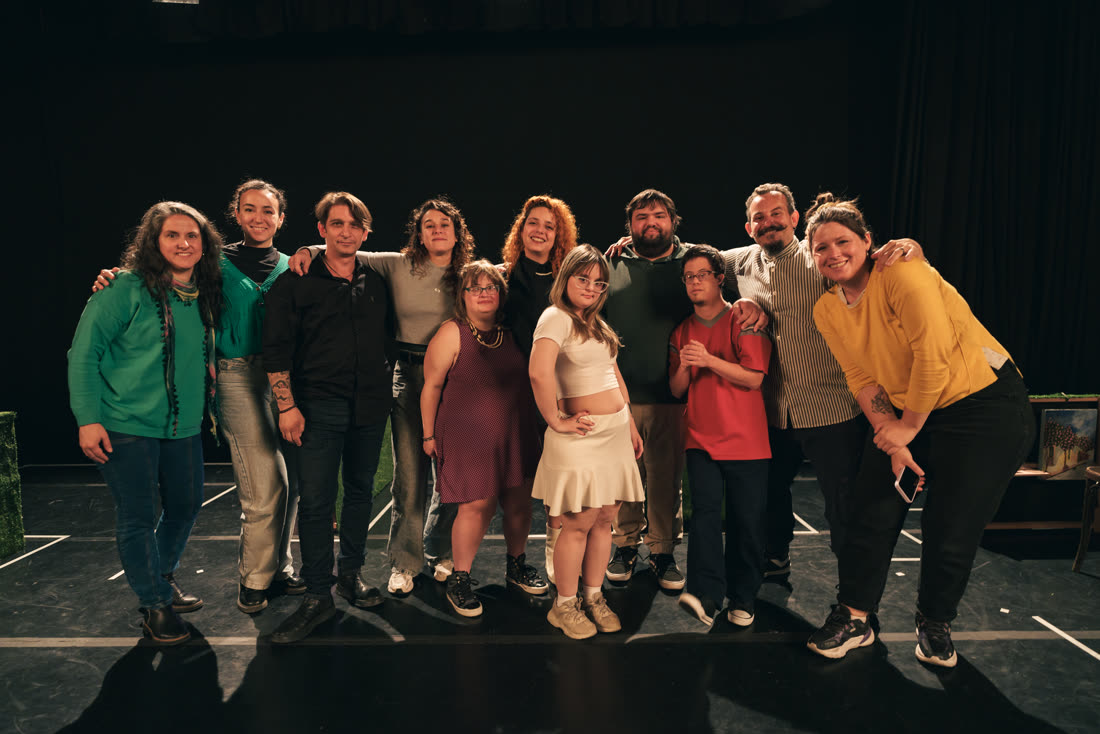
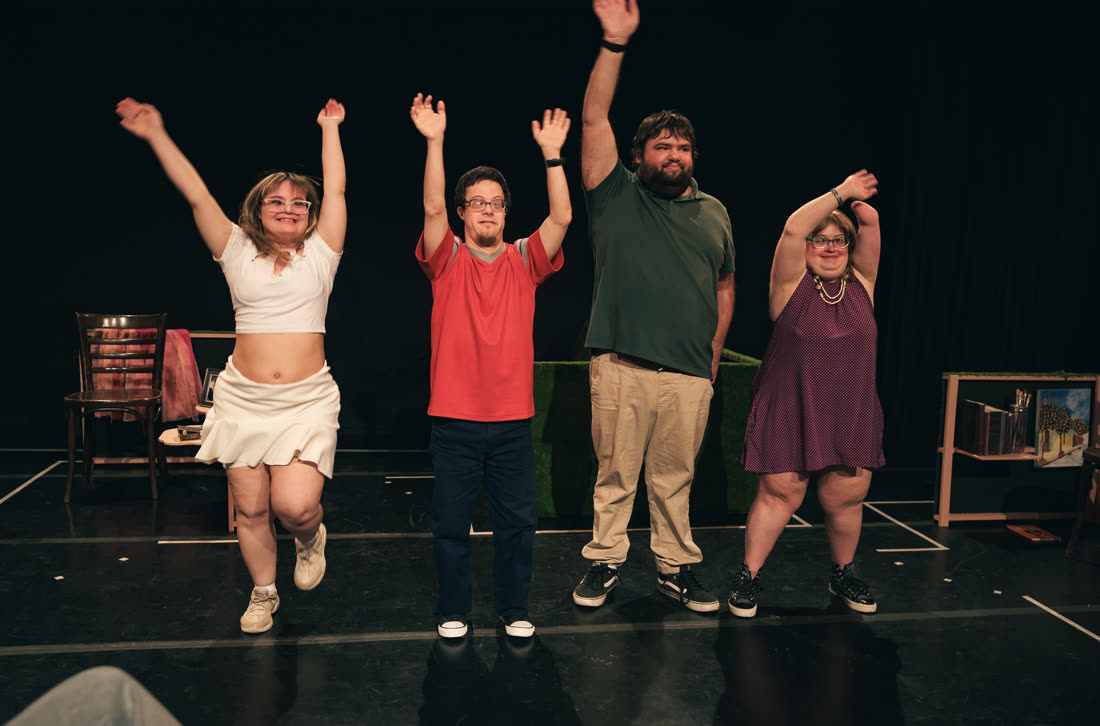
Cambios que pidieron ellas

diff --git a/index.html b/index.html
@@ -367,7 +367,6 @@
                         <div class="alianza-slideshow-frame">
                             <img src="assets/imgs/alianzas-1.jpg" alt="Centro Cultural de la Cooperación">
                             <img src="assets/imgs/alianzas-2.jpg" alt="Centro Cultural de la Cooperación">
-                            <img src="assets/imgs/alianzas-3.jpg" alt="Centro Cultural de la Cooperación">
                         </div>
                     </div>
                     <div class="alianza-copy">
@@ -457,6 +456,15 @@
                         </div>
                     </div>
                 </div>
+                <div class="timeline-item">
+                    <div class="timeline-card">
+                        <img class="timeline-photo" src="assets/imgs/participaciones-7.jpg" alt="Entrevista en la Universidad Nacional de las Artes">
+                        <div class="timeline-card-copy">
+                            <h4 class="timeline-card-title">Entrevista en la UNA</h4>
+                            <p>La Universidad Nacional de las Artes invitó a Malena Sánchez Olmos a participar de una entrevista sobre Accesibilidad Cultural. La charla se dio en el marco de la Diplomatura en herramientas de gestión, producción, y programación para el sector cultural independiente, que la universidad organiza junto a Vuela el pez.</p>
+                        </div>
+                    </div>
+                </div>
             </div>
         </div>
 
@@ -476,7 +484,7 @@
                     <div class="slide apoyo-slide"><img src="assets/imgs/logos/logo-ctba.webp" alt="CTBA"></div>
                     <div class="slide apoyo-slide"><img src="assets/imgs/logos/logo-secretaria-cultura-nacion.png" alt="Secretaría de Cultura de la Nación"></div>
                     <div class="slide apoyo-slide"><img src="assets/imgs/logos/logo-la-matanza.png" alt="La Matanza"></div>
-                    <div class="slide apoyo-slide"><img src="assets/imgs/logos/logo-chacra-remedios.jpg" alt="La Chacra de los Remedios"></div>
+                    <div class="slide apoyo-slide"><img src="assets/imgs/logos/logo-buenos-aires-ciudad.png" alt="Buenos Aires Ciudad"></div>
                     <div class="slide apoyo-slide"><img src="assets/imgs/logos/logo-ort.png" alt="ORT Argentina"></div>
                     <div class="slide apoyo-slide"><img src="assets/imgs/logos/logo-proteatro.png" alt="Proteatro"></div>
                     <div class="slide apoyo-slide"><img src="assets/imgs/logos/logo-fiba.png" alt="FIBA - Festival Internacional de Buenos Aires"></div>
@@ -490,7 +498,7 @@
                     <div class="slide apoyo-slide"><img src="assets/imgs/logos/logo-ctba.webp" alt="CTBA"></div>
                     <div class="slide apoyo-slide"><img src="assets/imgs/logos/logo-secretaria-cultura-nacion.png" alt="Secretaría de Cultura de la Nación"></div>
                     <div class="slide apoyo-slide"><img src="assets/imgs/logos/logo-la-matanza.png" alt="La Matanza"></div>
-                    <div class="slide apoyo-slide"><img src="assets/imgs/logos/logo-chacra-remedios.jpg" alt="La Chacra de los Remedios"></div>
+                    <div class="slide apoyo-slide"><img src="assets/imgs/logos/logo-buenos-aires-ciudad.png" alt="Buenos Aires Ciudad"></div>
                     <div class="slide apoyo-slide"><img src="assets/imgs/logos/logo-ort.png" alt="ORT Argentina"></div>
                     <div class="slide apoyo-slide"><img src="assets/imgs/logos/logo-proteatro.png" alt="Proteatro"></div>
                     <div class="slide apoyo-slide"><img src="assets/imgs/logos/logo-fiba.png" alt="FIBA - Festival Internacional de Buenos Aires"></div>
@@ -562,10 +570,10 @@
                     <div class="op-block-panel-inner">
                         <p>Esto incluye:</p>
                         <ul class="op-block-list">
-                            <li><strong>Curso IAC:</strong> Curso autoasistido en formato video de Introducción a la Accesibilidad Cultural, destinado al público general que desee hacer una primera aproximación al tema. <span class="link-pending">(falta el link)</span></li>
-                            <li><strong>Caja de Herramientas:</strong> Conjunto de herramientas prácticas para accesibilizar espacios y proyectos culturales, tales como pictogramas, señalética, información sobre tipos de apoyos, entre otras. <span class="link-pending">(falta el link)</span></li>
-                            <li><strong>Manual de funciones distendidas:</strong> Manual práctico para implementar funciones distendidas de espectáculos de artes escénicas, incluyendo adaptaciones escenotécnicas, material anticipatorio y espacio de bajos estímulos. <span class="link-pending">(falta el link)</span></li>
-                            <li><strong>Relevamiento de accesibilidad cultural en artes escénicas:</strong> estudio sobre las condiciones de accesibilidad en salas teatrales independientes de la Ciudad de Buenos Aires. El objetivo es identificar los apoyos presentes en las salas para poder disponibilizar la información en la web de Alternativa Teatral. <span class="link-pending">(falta el link)</span></li>
+                            <li><strong>Curso IAC:</strong> Curso autoasistido en formato video de Introducción a la Accesibilidad Cultural, destinado al público general que desee hacer una primera aproximación al tema.</li>
+                            <li><strong>Caja de Herramientas:</strong> Conjunto de herramientas prácticas para accesibilizar espacios y proyectos culturales, tales como pictogramas, señalética, información sobre tipos de apoyos, entre otras.</li>
+                            <li><strong>Manual de funciones distendidas:</strong> Manual práctico para implementar funciones distendidas de espectáculos de artes escénicas, incluyendo adaptaciones escenotécnicas, material anticipatorio y espacio de bajos estímulos.</li>
+                            <li><strong>Relevamiento de accesibilidad cultural en artes escénicas:</strong> estudio sobre las condiciones de accesibilidad en salas teatrales independientes de la Ciudad de Buenos Aires. El objetivo es identificar los apoyos presentes en las salas para poder disponibilizar la información en la web de Alternativa Teatral.</li>
                         </ul>
                         <p class="op-block-sponsors">Con el apoyo de:</p>
                         <div class="op-block-sponsor-logos">
@@ -581,7 +589,7 @@
             <div class="op-block">
                 <button type="button" class="op-block-trigger" aria-expanded="false" aria-controls="op-panel-3">
                     <span class="op-block-heading">
-                        <span class="op-block-title">Podcast</span>
+                        <span class="op-block-title"><img src="assets/imgs/logos/logo-podcast.png" alt="Podcast Apto para Todo Público"></span>
                         <span class="op-block-preview">El Podcast Apto para Todo Público está dirigido a toda la comunidad, tiene el objetivo de difundir la accesibilidad cultural y socializar el aprendizaje.</span>
                     </span>
                     <span class="op-block-icon" aria-hidden="true"></span>
@@ -620,14 +628,14 @@
 
                 <div class="services-wrapper">
                     <h3 class="title mb-3" data-section="servicios-asesorias" data-translate="title">Asesorías - Accesibilizá tu proyecto</h3>
-                    <video class="services-wrapper-photo" src="assets/imgs/videos/distendida-gdz-web.mp4" controls preload="metadata" playsinline></video>
+                    <img class="services-wrapper-photo" src="assets/imgs/servicios-2.jpg" alt="Flyer de La Granja de Zenón">
                     <div class="services-wrapper-text-flyer">
                         <div class="services-wrapper-text">
                             <p data-section="servicios-asesorias" data-translate="paragraph1">Espacio de acompañamiento para que los proyectos culturales nazcan o se vuelvan accesibles para todos los públicos. A través de herramientas de gestión cultural y poniendo el foco en la accesibilidad cultural, buscamos aportar en el desarrollo de proyectos culturales aptos para todo público.</p>
                             <p data-section="servicios-asesorias" data-translate="paragraph2">Este servicio integral incluye: adaptación técnica del contenido, armado de material anticipatorio, diseño de señalética con pictogramas, capacitación al equipo de producción y personal de sala y acompañamiento por parte de un equipo de salud mental previo y durante las funciones.</p>
                         </div>
                         <div class="services-wrapper-flyer-col">
-                            <img class="services-wrapper-flyer" src="assets/imgs/servicios-2.jpg" alt="Función distendida en La Granja de Zenón">
+                            <video class="services-wrapper-flyer" src="assets/imgs/videos/distendida-gdz-web.mp4" controls preload="metadata" playsinline></video>
                             <p class="services-wrapper-credit" data-section="servicios-asesorias" data-translate="credit">La Granja de Zenón</p>
                         </div>
                     </div>

diff --git a/assets/scss/styles.scss b/assets/scss/styles.scss
@@ -3625,8 +3625,8 @@ nav.page-navbar.affix .navbar-brand .text-dark {
     }
   }
 
-  // Mobile only, per request — brand red instead of white, and one
-  // section per row instead of a wrapped inline row.
+  // Mobile only, per request — brand red instead of white, bold, and
+  // one section per row instead of a wrapped inline row.
   @media (max-width: 700px) {
     ul {
       flex-direction: column;
@@ -3634,6 +3634,7 @@ nav.page-navbar.affix .navbar-brand .text-dark {
 
     a {
       color: $primary;
+      font-weight: 700;
     }
   }
 }
@@ -4012,9 +4013,13 @@ nav.page-navbar.affix .navbar-brand .text-dark {
     width: 70%;
     max-width: none;
     font-size: 15px;
-    text-align: center;
+    // Was "center" with "margin: 40px auto 0" (auto-centering the
+    // narrower 70%-wide block itself) — per request, left-aligned
+    // instead: text starts at the container's own left edge rather than
+    // sitting centered in a floating column.
+    text-align: left;
     transform: none;
-    margin: 40px auto 0;
+    margin: 40px 0 0;
   }
 
   .header-eyebrow-stack {
@@ -4723,9 +4728,9 @@ section.height-auto {
   // matches tab-focus, not mouse clicks).
   outline: none;
 
-  // AcceDER I/II show a tall program logo instead of plain text — less
-  // vertical padding so the collapsed row doesn't grow so much (Podcast,
-  // with a plain-text title, keeps the default padding above).
+  // All three (AcceDER I/II, Podcast) show a program logo/cover instead
+  // of plain text — less vertical padding so the collapsed row doesn't
+  // grow so much.
   &:has(.op-block-title img) {
     padding-top: 2px;
   }
@@ -4756,8 +4761,8 @@ section.height-auto {
   align-self: stretch;
   text-align: center;
 
-  // AcceDER I/II show their own program logo here instead of text
-  // (Podcast has no logo, so it stays plain text).
+  // AcceDER I/II/Podcast each show their own program logo/cover here
+  // instead of plain text.
   img {
     display: block;
     margin: 0 auto;
@@ -4767,6 +4772,15 @@ section.height-auto {
 
   img[src*="logo-acceder-II"] {
     max-height: 155px;
+  }
+
+  // A bit bigger than the others (it's a square cover, so it reads
+  // smaller at the same height), plus its own bottom margin to clear
+  // the preview text below it — the base rule's "margin: 0 auto" has no
+  // bottom space, so it was sitting right up against that text.
+  img[src*="logo-podcast"] {
+    max-height: 150px;
+    margin-bottom: 14px;
   }
 }
 
@@ -4827,12 +4841,6 @@ section.height-auto {
       margin-bottom: 0;
     }
   }
-}
-
-.link-pending {
-  color: rgba($white, 0.5);
-  font-style: italic;
-  font-size: 0.85em;
 }
 
 .op-block-media {
@@ -4983,7 +4991,12 @@ section.height-auto {
 // The illustrative photo/media sit below the title, as regular content.
 .services-wrapper-photo {
   width: 100%;
-  aspect-ratio: 4 / 3;
+  // Both photos that land in this slot are portrait (servicios-1.jpg is
+  // 1200x1600, servicios-2.jpg's flyer is 900x1126) — the old 4/3
+  // (landscape) ratio combined with object-fit: cover cropped away
+  // roughly the top/bottom half of each, cutting flyer text/logos off
+  // entirely. 3/4 matches their own shape instead.
+  aspect-ratio: 3 / 4;
   object-fit: cover;
   border-radius: 0.2rem;
   margin-bottom: 15px;
@@ -5065,14 +5078,22 @@ section.height-auto {
   background-color: $white;
   background-image: url(../imgs/portada-obras.jpg);
   background-size: 925px auto;
-  background-position: left bottom;
+  // Was "left" (0) — per request, pulled further left (off-canvas) on
+  // desktop so the shape's own right edge clears the centered
+  // title/subtitle/intro text instead of creeping under it. Mobile below
+  // overrides this back to its own position, so only desktop moves.
+  background-position: -120px bottom;
   background-repeat: no-repeat;
 
-  // On mobile, pin the image to the bottom-right corner and shrink the
-  // fixed size down — 925px would mostly be cropped off-screen on a
-  // phone-width viewport.
-  @media (max-width: 700px) {
-    background-position: right bottom;
+  // Below 1253px the desktop -120px-left position runs out of room and
+  // starts looking wrong (per request) — shrink the fixed size down
+  // instead, same as mobile below that point. Stays pinned to the LEFT
+  // (per request — not "right", which it had wrongly ended up as here),
+  // matching the desktop version's own left-ish placement. This
+  // threshold is specific to this image/layout, not the site's usual
+  // 700px mobile breakpoint.
+  @media (max-width: 1253px) {
+    background-position: left bottom;
     background-size: 420px auto;
   }
 
@@ -6096,6 +6117,17 @@ body.modal-open .project-card {
     &:nth-child(2) { animation-delay: 6s; }
     &:nth-child(3) { animation-delay: 12s; }
   }
+}
+
+// .alianza-slideshow--arch (Centro Cultural de la Cooperación) only has
+// 2 photos, not the 3 the base rule above is timed for — at 18s/3-way
+// dwell, each photo would sit idle (fully faded out) for a dead ~6s
+// stretch of every cycle waiting for a 3rd photo that doesn't exist.
+// The keyframe's own stops are percentages, so they rescale for free —
+// only the duration needs shortening to close that gap (18s / 3 turns
+// -> 12s / 2 turns, same 6s-per-turn pace as the 3-photo version).
+.alianza-slideshow--arch .alianza-slideshow-frame img {
+  animation-duration: 12s;
 }
 
 // A little playful bounce/tilt on top of the crossfade instead of a

diff --git a/assets/css/styles.css b/assets/css/styles.css
@@ -3550,6 +3550,7 @@ nav.page-navbar.affix .navbar-brand .text-dark {
   }
   .footer-sitemap a {
     color: #DE3A1A;
+    font-weight: 700;
   }
 }
 
@@ -3802,9 +3803,9 @@ nav.page-navbar.affix .navbar-brand .text-dark {
     width: 70%;
     max-width: none;
     font-size: 15px;
-    text-align: center;
+    text-align: left;
     transform: none;
-    margin: 40px auto 0;
+    margin: 40px 0 0;
   }
   .header-eyebrow-stack {
     transform: translateY(360px);
@@ -4408,6 +4409,10 @@ section.height-auto {
 .op-block-title img[src*=logo-acceder-II] {
   max-height: 155px;
 }
+.op-block-title img[src*=logo-podcast] {
+  max-height: 150px;
+  margin-bottom: 14px;
+}
 
 .op-block-preview {
   flex: 1 1 auto;
@@ -4458,12 +4463,6 @@ section.height-auto {
 }
 .op-block-list li:last-child {
   margin-bottom: 0;
-}
-
-.link-pending {
-  color: rgba(255, 255, 255, 0.5);
-  font-style: italic;
-  font-size: 0.85em;
 }
 
 .op-block-media {
@@ -4585,7 +4584,7 @@ section.height-auto {
 
 .services-wrapper-photo {
   width: 100%;
-  aspect-ratio: 4/3;
+  aspect-ratio: 3/4;
   object-fit: cover;
   border-radius: 0.2rem;
   margin-bottom: 15px;
@@ -4647,12 +4646,12 @@ section.height-auto {
   background-color: #FFFFFF;
   background-image: url(../imgs/portada-obras.jpg);
   background-size: 925px auto;
-  background-position: left bottom;
+  background-position: -120px bottom;
   background-repeat: no-repeat;
 }
-@media (max-width: 700px) {
+@media (max-width: 1253px) {
   #obras-teatrales {
-    background-position: right bottom;
+    background-position: left bottom;
     background-size: 420px auto;
   }
 }
@@ -5446,6 +5445,10 @@ body.modal-open .project-card {
 }
 .alianza-slideshow-frame img:nth-child(3) {
   animation-delay: 12s;
+}
+
+.alianza-slideshow--arch .alianza-slideshow-frame img {
+  animation-duration: 12s;
 }
 
 @keyframes alianza-slideshow-fade {
